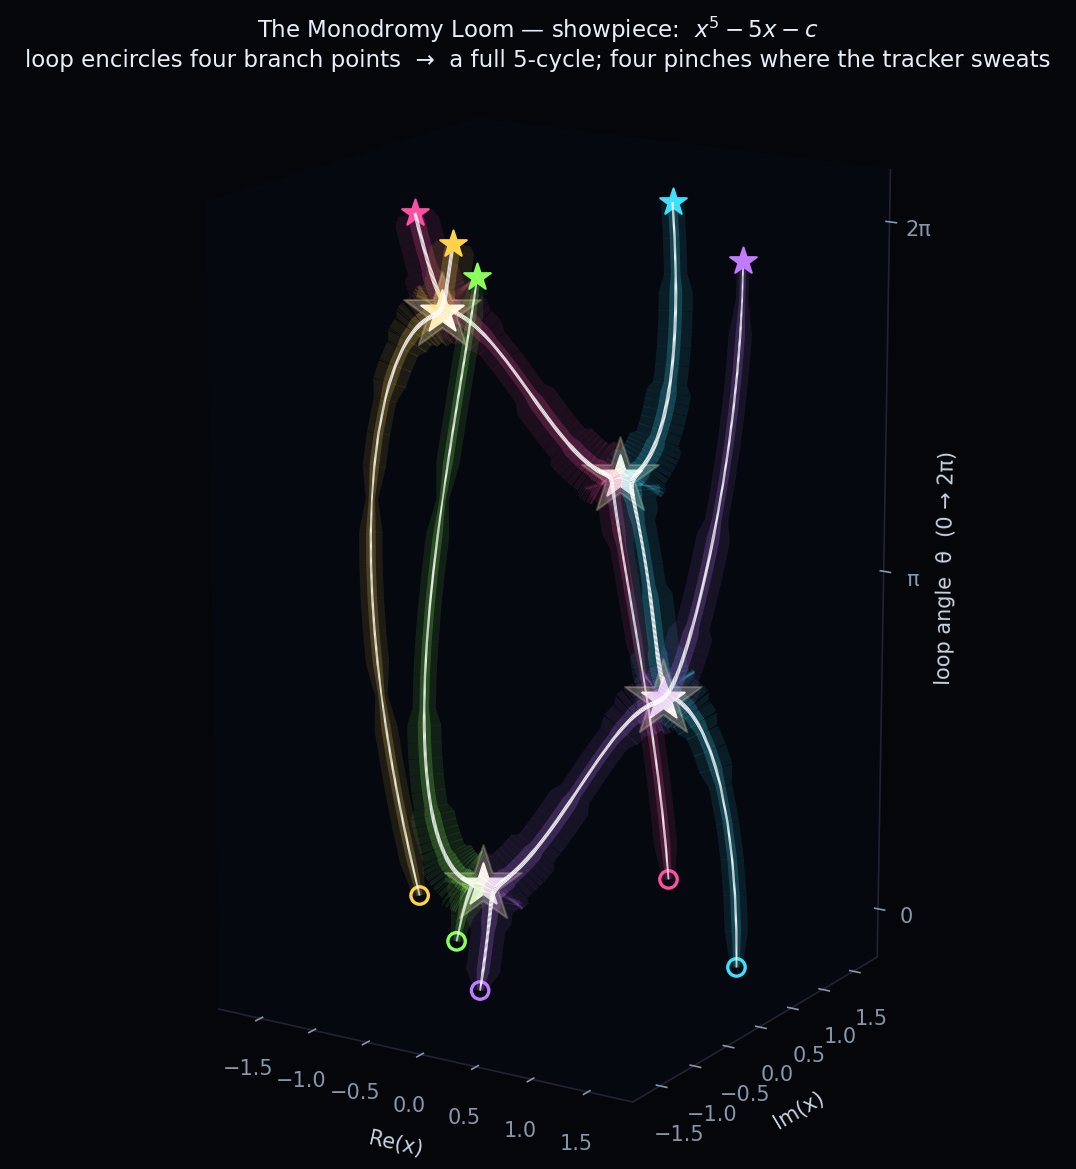
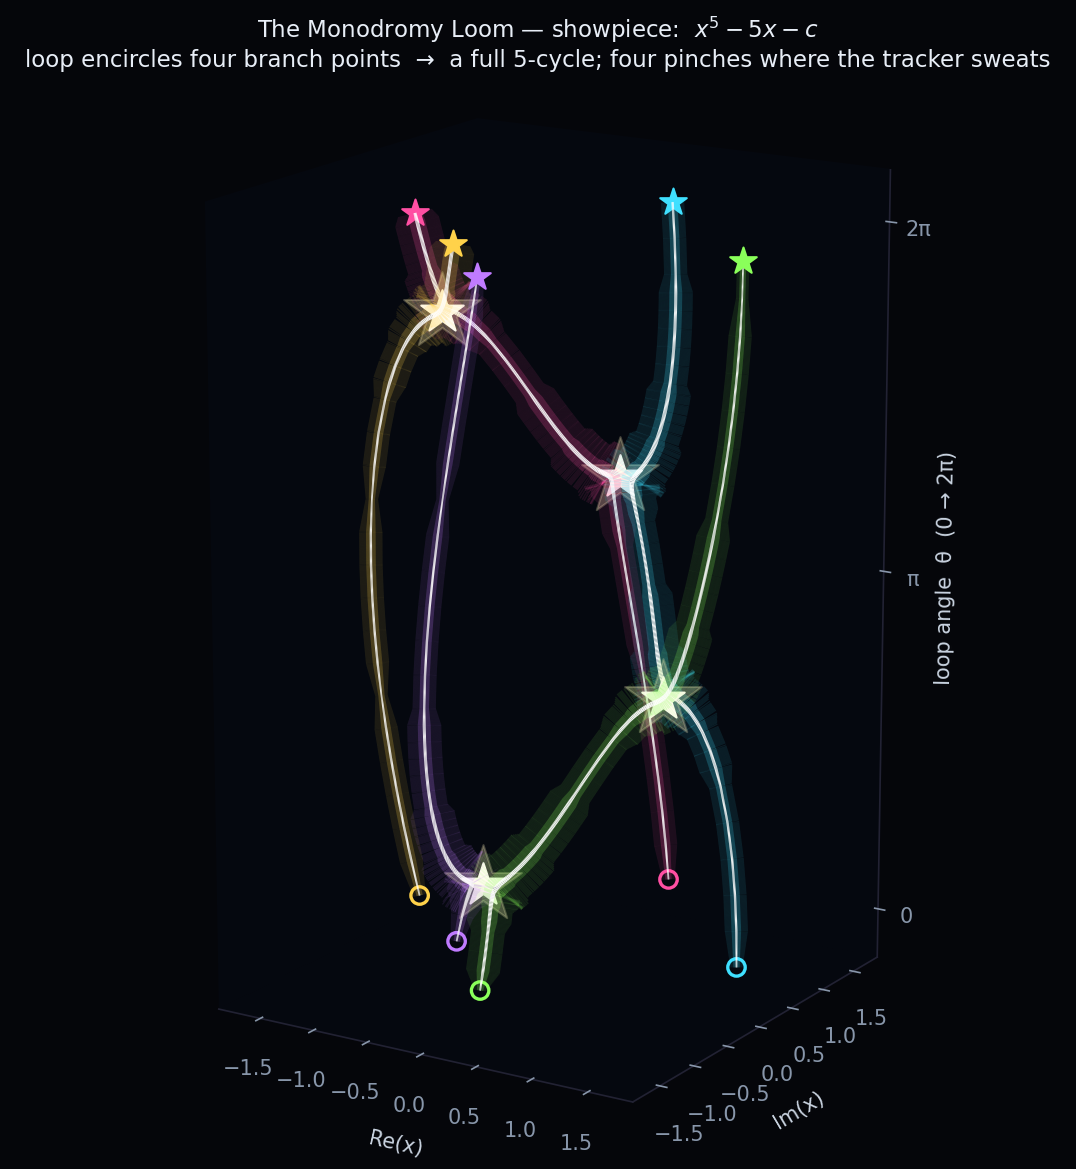
docs(showpieces): regenerate the Loom via refresh_doc_artifacts; pin seed
Fold the Monodromy Loom into tools/refresh_doc_artifacts.py's plot manifest
(--plots --only monodromy_loom) so the showpiece stays current with the library
like every other doc figure.  Pin a random seed in the generator so the render
is byte-reproducible run-to-run (verified: identical sha256 across two refreshes).
Raster PNG only -- noted in the manifest entry.

Changed region(s): [[0.368, 0.2156, 0.6747, 0.8623], [0.6747, 0.2156, 0.7054, 0.4003]]

diff --git a/python/docs/source/showpieces/monodromy_loom/monodromy_loom.py b/python/docs/source/showpieces/monodromy_loom/monodromy_loom.py
@@ -231,6 +231,7 @@ def render(strands, out, title, subtitle):
 
 def teaching_frame(out):
     """x^3 - 3x - c: a loop around ONE branch point (c = +2) -> a single transposition."""
+    bertini.random.set_random_seed(1)     # deterministic start-root ordering -> stable render
     # branch points at c = +/-2; put the loop centre right of +2 so it encircles +2, excludes -2,
     # and its closest approach (the pinch) lands at theta = pi, mid-loop.
     radius, graze = 1.5, 0.02
@@ -242,6 +243,7 @@ def teaching_frame(out):
 
 def showpiece_frame(out):
     """x^5 - 5x - c: a loop around ALL FOUR branch points -> a full 5-cycle, four pinches."""
+    bertini.random.set_random_seed(1)     # deterministic start-root ordering -> stable render
     radius = abs(branch_values(5)[0]) + 0.15       # circle |c| = R just outside the branch orbit
     strands, _ = track_loop(5, 0.0 + 0.0j, radius, phi=math.pi / 4)   # phi keeps pinches off the seam
     render(strands, out,

diff --git a/tools/refresh_doc_artifacts.py b/tools/refresh_doc_artifacts.py
@@ -40,6 +40,7 @@ from pathlib import Path
 
 REPO = Path(__file__).resolve().parent.parent
 TUT = REPO / "python" / "docs" / "source" / "tutorials"
+SHOWPIECES = REPO / "python" / "docs" / "source" / "showpieces"
 EXAMPLES = REPO / "python" / "examples"
 
 # A fixed salt makes matplotlib's SVG element ids deterministic run-to-run (same matplotlib
@@ -111,6 +112,10 @@ def _plots():
              argv=["--plot", "{outdir}/chain_progression"],
              env={"BERTINI_RECORDS_DIR": "{tmpdir}"},
              note="records go to a scratch dir; only the drawn chain is the artifact"),
+        Plot("monodromy_loom",
+             SHOWPIECES / "monodromy_loom" / "monodromy_loom.py",
+             ["monodromy_loom.png", "monodromy_loom_teaching.png"],
+             note="showpiece: raster PNG only (a 3-D render has no meaningful SVG)"),
     ]
 
 
